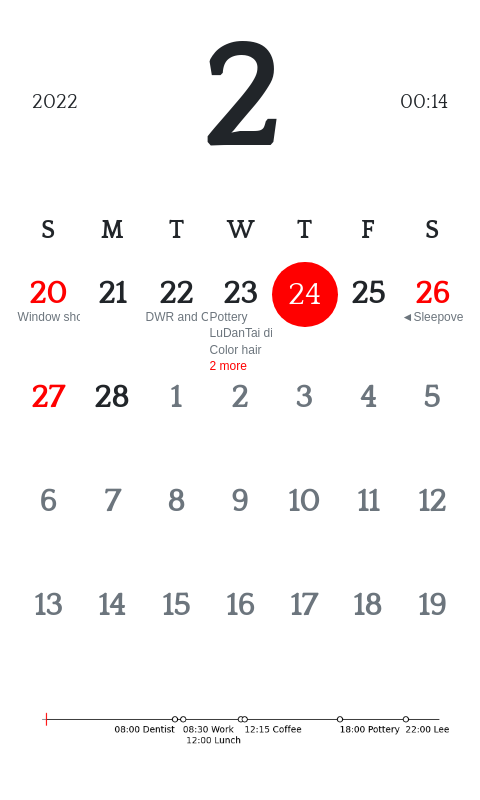
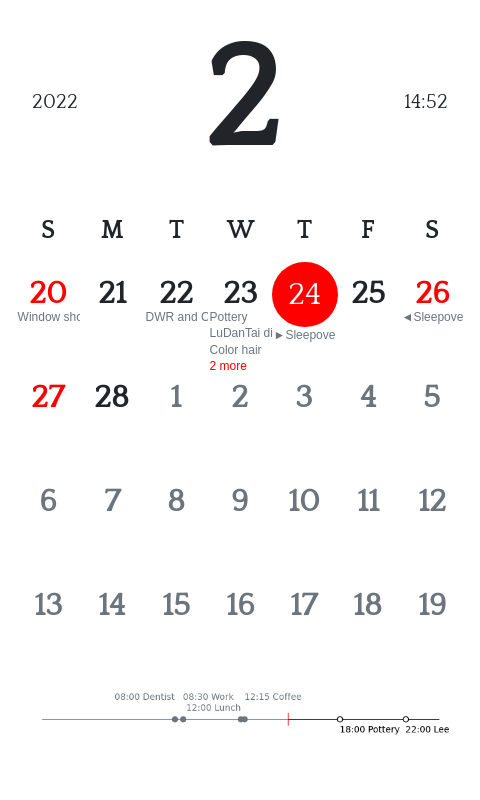
prepare timeline render to be dynamic

diff --git a/render/calendar.html b/render/calendar.html
@@ -12,7 +12,7 @@
              style="display:flex;justify-content:space-between;">
             <div class="time-info">2022</div>
             <h3 class="month font-weight-bold mb-0 text-uppercase">2</h3>
-            <div class="time-info">00:14</div>
+            <div class="time-info">14:52</div>
         </div>
         <!-- Days of week -->
         <ol class="day-names list-unstyled text-center"><li class="font-weight-bold text-uppercase">S</li>
@@ -38,6 +38,7 @@
 <div class="event"> Color hair</div>
 <div class="event" style="color:red;">2 more</li>
 <li><div class="datecircle">24</div>
+<div class="event">►Sleepover at Vicky's</div>
 </li>
 <li><div class="date">25</div>
 </li>

diff --git a/render/render.py b/render/render.py
@@ -20,8 +20,11 @@ from PIL import Image
 from selenium import webdriver
 from selenium.webdriver.chrome.options import Options
 
+from render.timeline import Timeline
+
 
 class RenderHelper:
+    Timeline(None).render()
 
     def __init__(self, width, height, angle):
         self.logger = logging.getLogger('maginkcal')
@@ -42,8 +45,10 @@ class RenderHelper:
         inner_height = int(html.get_attribute("clientHeight"))
 
         # "Internal width you want to set+Set "outer frame width" to window size
-        target_width = self.imageWidth + (current_window_size["width"] - inner_width)
-        target_height = self.imageHeight + (current_window_size["height"] - inner_height)
+        target_width = self.imageWidth + \
+            (current_window_size["width"] - inner_width)
+        target_height = self.imageHeight + \
+            (current_window_size["height"] - inner_height)
 
         driver.set_window_rect(
             width=target_width,
@@ -68,18 +73,23 @@ class RenderHelper:
         blackimg = Image.open(self.currPath + '/calendar.png')  # get image)
         bpixels = blackimg.load()  # create the pixel map
 
-        for i in range(redimg.size[0]):  # loop through every pixel in the image
-            for j in range(redimg.size[1]):  # since both bitmaps are identical, cycle only once and not both bitmaps
+        # loop through every pixel in the image
+        for i in range(redimg.size[0]):
+            # since both bitmaps are identical, cycle only once and not both bitmaps
+            for j in range(redimg.size[1]):
                 if rpixels[i, j][0] <= rpixels[i, j][1] and rpixels[i, j][0] <= rpixels[i, j][2]:  # if is not red
-                    rpixels[i, j] = (255, 255, 255)  # change it to white in the red image bitmap
+                    # change it to white in the red image bitmap
+                    rpixels[i, j] = (255, 255, 255)
 
                 elif bpixels[i, j][0] > bpixels[i, j][1] and bpixels[i, j][0] > bpixels[i, j][2]:  # if is red
-                    bpixels[i, j] = (255, 255, 255)  # change to white in the black image bitmap
+                    # change to white in the black image bitmap
+                    bpixels[i, j] = (255, 255, 255)
 
         redimg = redimg.rotate(self.rotateAngle, expand=True)
         blackimg = blackimg.rotate(self.rotateAngle, expand=True)
 
-        self.logger.info('Image colours processed. Extracted grayscale and red images.')
+        self.logger.info(
+            'Image colours processed. Extracted grayscale and red images.')
         return blackimg, redimg
 
     def get_day_in_cal(self, startDate, eventDate):
@@ -89,7 +99,8 @@ class RenderHelper:
     def get_short_time(self, datetimeObj, is24hour=False):
         datetime_str = ''
         if is24hour:
-            datetime_str = '{}:{:02d}'.format(datetimeObj.hour, datetimeObj.minute)
+            datetime_str = '{}:{:02d}'.format(
+                datetimeObj.hour, datetimeObj.minute)
         else:
             if datetimeObj.minute > 0:
                 datetime_str = '.{:02d}'.format(datetimeObj.minute)
@@ -99,9 +110,11 @@ class RenderHelper:
             elif datetimeObj.hour == 12:
                 datetime_str = '12{}pm'.format(datetime_str)
             elif datetimeObj.hour > 12:
-                datetime_str = '{}{}pm'.format(str(datetimeObj.hour % 12), datetime_str)
+                datetime_str = '{}{}pm'.format(
+                    str(datetimeObj.hour % 12), datetime_str)
             else:
-                datetime_str = '{}{}am'.format(str(datetimeObj.hour), datetime_str)
+                datetime_str = '{}{}am'.format(
+                    str(datetimeObj.hour), datetime_str)
         return datetime_str
 
     def process_inputs(self, calDict):
@@ -122,11 +135,13 @@ class RenderHelper:
 
         # for each item in the eventList, add them to the relevant day in our calendar list
         for event in calDict['events']:
-            idx = self.get_day_in_cal(calDict['calStartDate'], event['startDatetime'].date())
+            idx = self.get_day_in_cal(
+                calDict['calStartDate'], event['startDatetime'].date())
             if idx >= 0:
                 calList[idx].append(event)
             if event['isMultiday']:
-                idx = self.get_day_in_cal(calDict['calStartDate'], event['endDatetime'].date())
+                idx = self.get_day_in_cal(
+                    calDict['calStartDate'], event['endDatetime'].date())
                 if idx < len(calList):
                     calList[idx].append(event)
 
@@ -152,15 +167,18 @@ class RenderHelper:
             currDate = calDict['calStartDate'] + timedelta(days=i)
             dayOfMonth = currDate.day
             if currDate == calDict['today']:
-                cal_events_text += '<li><div class="datecircle">' + str(dayOfMonth) + '</div>\n'
-                today = "<br>".join([event["summary"] for event in calList[i]])
-                calList[i] = []
+                cal_events_text += '<li><div class="datecircle">' + \
+                    str(dayOfMonth) + '</div>\n'
+                timeline_events = calList[i]
             elif currDate.month != calDict['today'].month:
-                cal_events_text += '<li><div class="date text-muted">' + str(dayOfMonth) + '</div>\n'
+                cal_events_text += '<li><div class="date text-muted">' + \
+                    str(dayOfMonth) + '</div>\n'
             elif currDate.weekday() in (5, 6):
-                cal_events_text += '<li><div class="date" style="color:red;">' + str(dayOfMonth) + '</div>\n'
+                cal_events_text += '<li><div class="date" style="color:red;">' + \
+                    str(dayOfMonth) + '</div>\n'
             else:
-                cal_events_text += '<li><div class="date">' + str(dayOfMonth) + '</div>\n'
+                cal_events_text += '<li><div class="date">' + \
+                    str(dayOfMonth) + '</div>\n'
 
             for j in range(min(len(calList[i]), maxEventsPerDay)):
                 event = calList[i][j]
@@ -190,9 +208,9 @@ class RenderHelper:
         htmlFile = open(self.currPath + '/calendar.html', "w")
         htmlFile.write(calendar_template.format(month=month_name, dayOfWeek=cal_days_of_week,
                                                 events=cal_events_text, current_time=current_time,
-                                                year=year_name, today=today))
+                                                year=year_name))
         htmlFile.close()
 
         calBlackImage, calRedImage = self.get_screenshot()
-
+        print(timeline_events)
         return calBlackImage, calRedImage

diff --git a/maginkcal.py b/maginkcal.py
@@ -17,9 +17,6 @@ from pytz import timezone
 
 from gcal.gcal import GcalHelper
 from render.render import RenderHelper
-from render.timeline import Timeline
-
-Timeline()
 
 
 def main():
@@ -27,26 +24,39 @@ def main():
     configFile = open('config.json')
     config = json.load(configFile)
 
-    displayTZ = timezone(config['displayTZ'])  # list of timezones - print(pytz.all_timezones)
-    thresholdHours = config['thresholdHours']  # considers events updated within last 12 hours as recently updated
-    maxEventsPerDay = config['maxEventsPerDay']  # limits number of events to display (remainder displayed as '+X more')
-    isDisplayToScreen = config['isDisplayToScreen']  # set to true when debugging rendering without displaying to screen
-    isShutdownOnComplete = config['isShutdownOnComplete']  # set to true to conserve power, false if in debugging mode
-    batteryDisplayMode = config['batteryDisplayMode']  # 0: do not show / 1: always show / 2: show when battery is low
+    # list of timezones - print(pytz.all_timezones)
+    displayTZ = timezone(config['displayTZ'])
+    # considers events updated within last 12 hours as recently updated
+    thresholdHours = config['thresholdHours']
+    # limits number of events to display (remainder displayed as '+X more')
+    maxEventsPerDay = config['maxEventsPerDay']
+    # set to true when debugging rendering without displaying to screen
+    isDisplayToScreen = config['isDisplayToScreen']
+    # set to true to conserve power, false if in debugging mode
+    isShutdownOnComplete = config['isShutdownOnComplete']
+    # 0: do not show / 1: always show / 2: show when battery is low
+    batteryDisplayMode = config['batteryDisplayMode']
     weekStartDay = config['weekStartDay']  # Monday = 0, Sunday = 6
     dayOfWeekText = config['dayOfWeekText']  # Monday as first item in list
-    screenWidth = config['screenWidth']  # Width of E-Ink display. Default is landscape. Need to rotate image to fit.
-    screenHeight = config['screenHeight']  # Height of E-Ink display. Default is landscape. Need to rotate image to fit.
-    imageWidth = config['imageWidth']  # Width of image to be generated for display.
-    imageHeight = config['imageHeight']  # Height of image to be generated for display.
-    rotateAngle = config['rotateAngle']  # If image is rendered in portrait orientation, angle to rotate to fit screen
+    # Width of E-Ink display. Default is landscape. Need to rotate image to fit.
+    screenWidth = config['screenWidth']
+    # Height of E-Ink display. Default is landscape. Need to rotate image to fit.
+    screenHeight = config['screenHeight']
+    # Width of image to be generated for display.
+    imageWidth = config['imageWidth']
+    # Height of image to be generated for display.
+    imageHeight = config['imageHeight']
+    # If image is rendered in portrait orientation, angle to rotate to fit screen
+    rotateAngle = config['rotateAngle']
     calendars = config['calendars']  # Google calendar ids
     is24hour = config['is24h']  # set 24 hour time
 
     # Create and configure logger
-    logging.basicConfig(filename="logfile.log", format='%(asctime)s %(levelname)s - %(message)s', filemode='a')
+    logging.basicConfig(filename="logfile.log",
+                        format='%(asctime)s %(levelname)s - %(message)s', filemode='a')
     logger = logging.getLogger('maginkcal')
-    logger.addHandler(logging.StreamHandler(sys.stdout))  # print logger to stdout
+    logger.addHandler(logging.StreamHandler(
+        sys.stdout))  # print logger to stdout
     logger.setLevel(logging.INFO)
     logger.info("Starting daily calendar update")
 
@@ -63,32 +73,38 @@ def main():
         current_time = currDatetime.strftime("%H:%M")
         logger.info("Time synchronised to {}".format(currDatetime))
         currDate = currDatetime.date()
-        calStartDate = currDate - dt.timedelta(days=((currDate.weekday() + (7 - weekStartDay)) % 7))
+        calStartDate = currDate - \
+            dt.timedelta(days=((currDate.weekday() + (7 - weekStartDay)) % 7))
         calEndDate = calStartDate + dt.timedelta(days=(4 * 7 - 1))
-        calStartDatetime = displayTZ.localize(dt.datetime.combine(calStartDate, dt.datetime.min.time()))
-        calEndDatetime = displayTZ.localize(dt.datetime.combine(calEndDate, dt.datetime.max.time()))
+        calStartDatetime = displayTZ.localize(
+            dt.datetime.combine(calStartDate, dt.datetime.min.time()))
+        calEndDatetime = displayTZ.localize(
+            dt.datetime.combine(calEndDate, dt.datetime.max.time()))
 
         # Using Google Calendar to retrieve all events within start and end date (inclusive)
         start = dt.datetime.now()
         gcalService = GcalHelper()
-        eventList = gcalService.retrieve_events(calendars, calStartDatetime, calEndDatetime, displayTZ, thresholdHours)
-        logger.info("Calendar events retrieved in " + str(dt.datetime.now() - start))
+        eventList = gcalService.retrieve_events(
+            calendars, calStartDatetime, calEndDatetime, displayTZ, thresholdHours)
+        logger.info("Calendar events retrieved in " +
+                    str(dt.datetime.now() - start))
 
         # Populate dictionary with information to be rendered on e-ink display
         calDict = {'events': eventList, 'calStartDate': calStartDate, 'today': currDate, 'lastRefresh': currDatetime,
                    'batteryDisplayMode': batteryDisplayMode,
                    'dayOfWeekText': dayOfWeekText, 'weekStartDay': weekStartDay, 'maxEventsPerDay': maxEventsPerDay,
                    'is24hour': is24hour, "current_time": current_time}
-
+        print(calDict["events"])
         renderService = RenderHelper(imageWidth, imageHeight, rotateAngle)
         calBlackImage, calRedImage = renderService.process_inputs(calDict)
 
-        if True:
+        if False:
             from display.display import DisplayHelper
             displayService = DisplayHelper(screenWidth, screenHeight)
             if currDate.weekday() == weekStartDay:
                 # calibrate display once a week to prevent ghosting
-                displayService.calibrate(cycles=0)  # to calibrate in production
+                # to calibrate in production
+                displayService.calibrate(cycles=0)
             displayService.update(calBlackImage, calRedImage)
             displayService.sleep()
 

diff --git a/render/timeline.py b/render/timeline.py
@@ -16,15 +16,15 @@ def military_to_minutes(time_in_military: str) -> int:
 
 def is_complete(event: dict) -> dict:
     current_time = datetime.now().strftime("%H:%M")
-    if military_to_minutes(current_time) >= military_to_minutes(event["end"]):
+    if military_to_minutes(current_time) >= military_to_minutes(event["endDatetime"]):
         # complete
         return {
             "color": GRAY,
             "markerfacecolor": GRAY,
             "xy": .01
         }
-    elif military_to_minutes(event["start"]) < military_to_minutes(current_time) and military_to_minutes(
-            current_time) <= military_to_minutes(event["end"]):
+    elif military_to_minutes(event["startDatetime"]) < military_to_minutes(current_time) and military_to_minutes(
+            current_time) <= military_to_minutes(event["endDatetime"]):
         # in progress
         return {
             "color": "k",
@@ -41,48 +41,56 @@ def is_complete(event: dict) -> dict:
 
 
 class Timeline:
-    event_list = [
-        {"summary": "Dentist", "start": "08:00", "end": "09:00"},
-        {"summary": "Work", "start": "08:30", "end": "09:00"},
-        {"summary": "Lunch", "start": "12:00", "end": "13:00"},
-        {"summary": "Coffee", "start": "12:15", "end": "12:30"},
-        {"summary": "Pottery", "start": "18:00", "end": "21:00"},
-        {"summary": "Lee", "start": "22:00", "end": "23:59"},
-    ]
+    def __init__(self, event_list):
+        self.event_list = event_list
+        self.event_list = [
+            {"summary": "Dentist", "startDatetime": "08:00", "endDatetime": "09:00"},
+            {"summary": "Work", "startDatetime": "08:30", "endDatetime": "09:00"},
+            {"summary": "Lunch", "startDatetime": "12:00", "endDatetime": "13:00"},
+            {"summary": "Coffee", "startDatetime": "12:15", "endDatetime": "12:30"},
+            {"summary": "Pottery", "startDatetime": "18:00", "endDatetime": "21:00"},
+            {"summary": "Lee", "startDatetime": "22:00", "endDatetime": "23:59"},
+        ]
+        self.current_datetime = datetime.now()
+        self.current_time = self.current_datetime.strftime("%H:%M")
+        self.current_day = self.current_datetime.today()
 
-    # Create figure and plot a stem plot with the date
-    # fig, ax = plt.subplots(figsize=(8.8, 4), constrained_layout=True)
-    fig, ax = plt.subplots(figsize=(8.8, 4), constrained_layout=False)
-    current_time = datetime.now().strftime("%H:%M")
+    def render(self):
+        # Create figure and plot a stem plot with the date
+        # fig, ax = plt.subplots(figsize=(8.8, 4), constrained_layout=True)
+        fig, ax = plt.subplots(figsize=(8.8, 4), constrained_layout=False)
 
-    # Black line for the entire timeline
-    ax.plot([0, 24 * 60], [0, 0], "-", color="k", linewidth=TIMELINE_WIDTH)
-    # Gray for time that has passed
-    ax.plot([0, military_to_minutes(current_time)], [0, 0], "-", color=GRAY, linewidth=TIMELINE_WIDTH)
+        # Black line for the entire timeline
+        ax.plot([0, 24 * 60], [0, 0], "-", color="k", linewidth=TIMELINE_WIDTH)
+        # Gray for time that has passed
+        ax.plot([0, military_to_minutes(self.current_time)], [0, 0],
+                "-", color=GRAY, linewidth=TIMELINE_WIDTH)
 
-    # Red tick for current time
-    ax.plot(military_to_minutes(current_time), 0, "|", color="r", markersize=RED_TICK_SIZE)
+        # Red tick for current time
+        ax.plot(military_to_minutes(self.current_time), 0,
+                "|", color="r", markersize=RED_TICK_SIZE)
 
-    texts = []
-    for event in event_list:
-        summary_with_time = f'{event["start"]} {event["summary"]}'
+        texts = []
+        for event in self.event_list:
+            summary_with_time = f'{event["startDatetime"]} {event["summary"]}'
 
-        ax.plot(
-            military_to_minutes(event["start"]), 0,
-            "o", color=is_complete(event)["color"], markerfacecolor=is_complete(event)["markerfacecolor"])
+            ax.plot(
+                military_to_minutes(event["startDatetime"]), 0,
+                "o", color=is_complete(event)["color"], markerfacecolor=is_complete(event)["markerfacecolor"])
 
-        texts.append(
-            ax.text(s=summary_with_time,
-                    x=military_to_minutes(event["start"]), y=is_complete(event)["xy"],
-                    color=is_complete(event)["color"])
-        )
+            texts.append(
+                ax.text(s=summary_with_time,
+                        x=military_to_minutes(event["startDatetime"]), y=is_complete(event)["xy"],
+                        color=is_complete(event)["color"])
+            )
 
-    # remove x, y axis and spines
-    ax.xaxis.set_visible(False)
-    ax.yaxis.set_visible(False)
-    ax.spines[["left", "top", "right", "bottom"]].set_visible(False)
-    ax.margins(y=0.1)
+        # remove x, y axis and spines
+        ax.xaxis.set_visible(False)
+        ax.yaxis.set_visible(False)
+        ax.spines[["left", "top", "right", "bottom"]].set_visible(False)
+        ax.margins(y=0.1)
 
-    adjust_text(texts, only_move={'points': 'y', 'text': 'y', 'objects': 'y'}, ha='left', va='bottom')
-    # plt.show()
-    fig.savefig("render/timeline.png", bbox_inches='tight', transparent=True)
+        adjust_text(texts, only_move={
+                    'points': 'y', 'text': 'y', 'objects': 'y'}, ha='left', va='bottom')
+        # plt.show()
+        fig.savefig("render/timeline.png", bbox_inches='tight', transparent=True)
